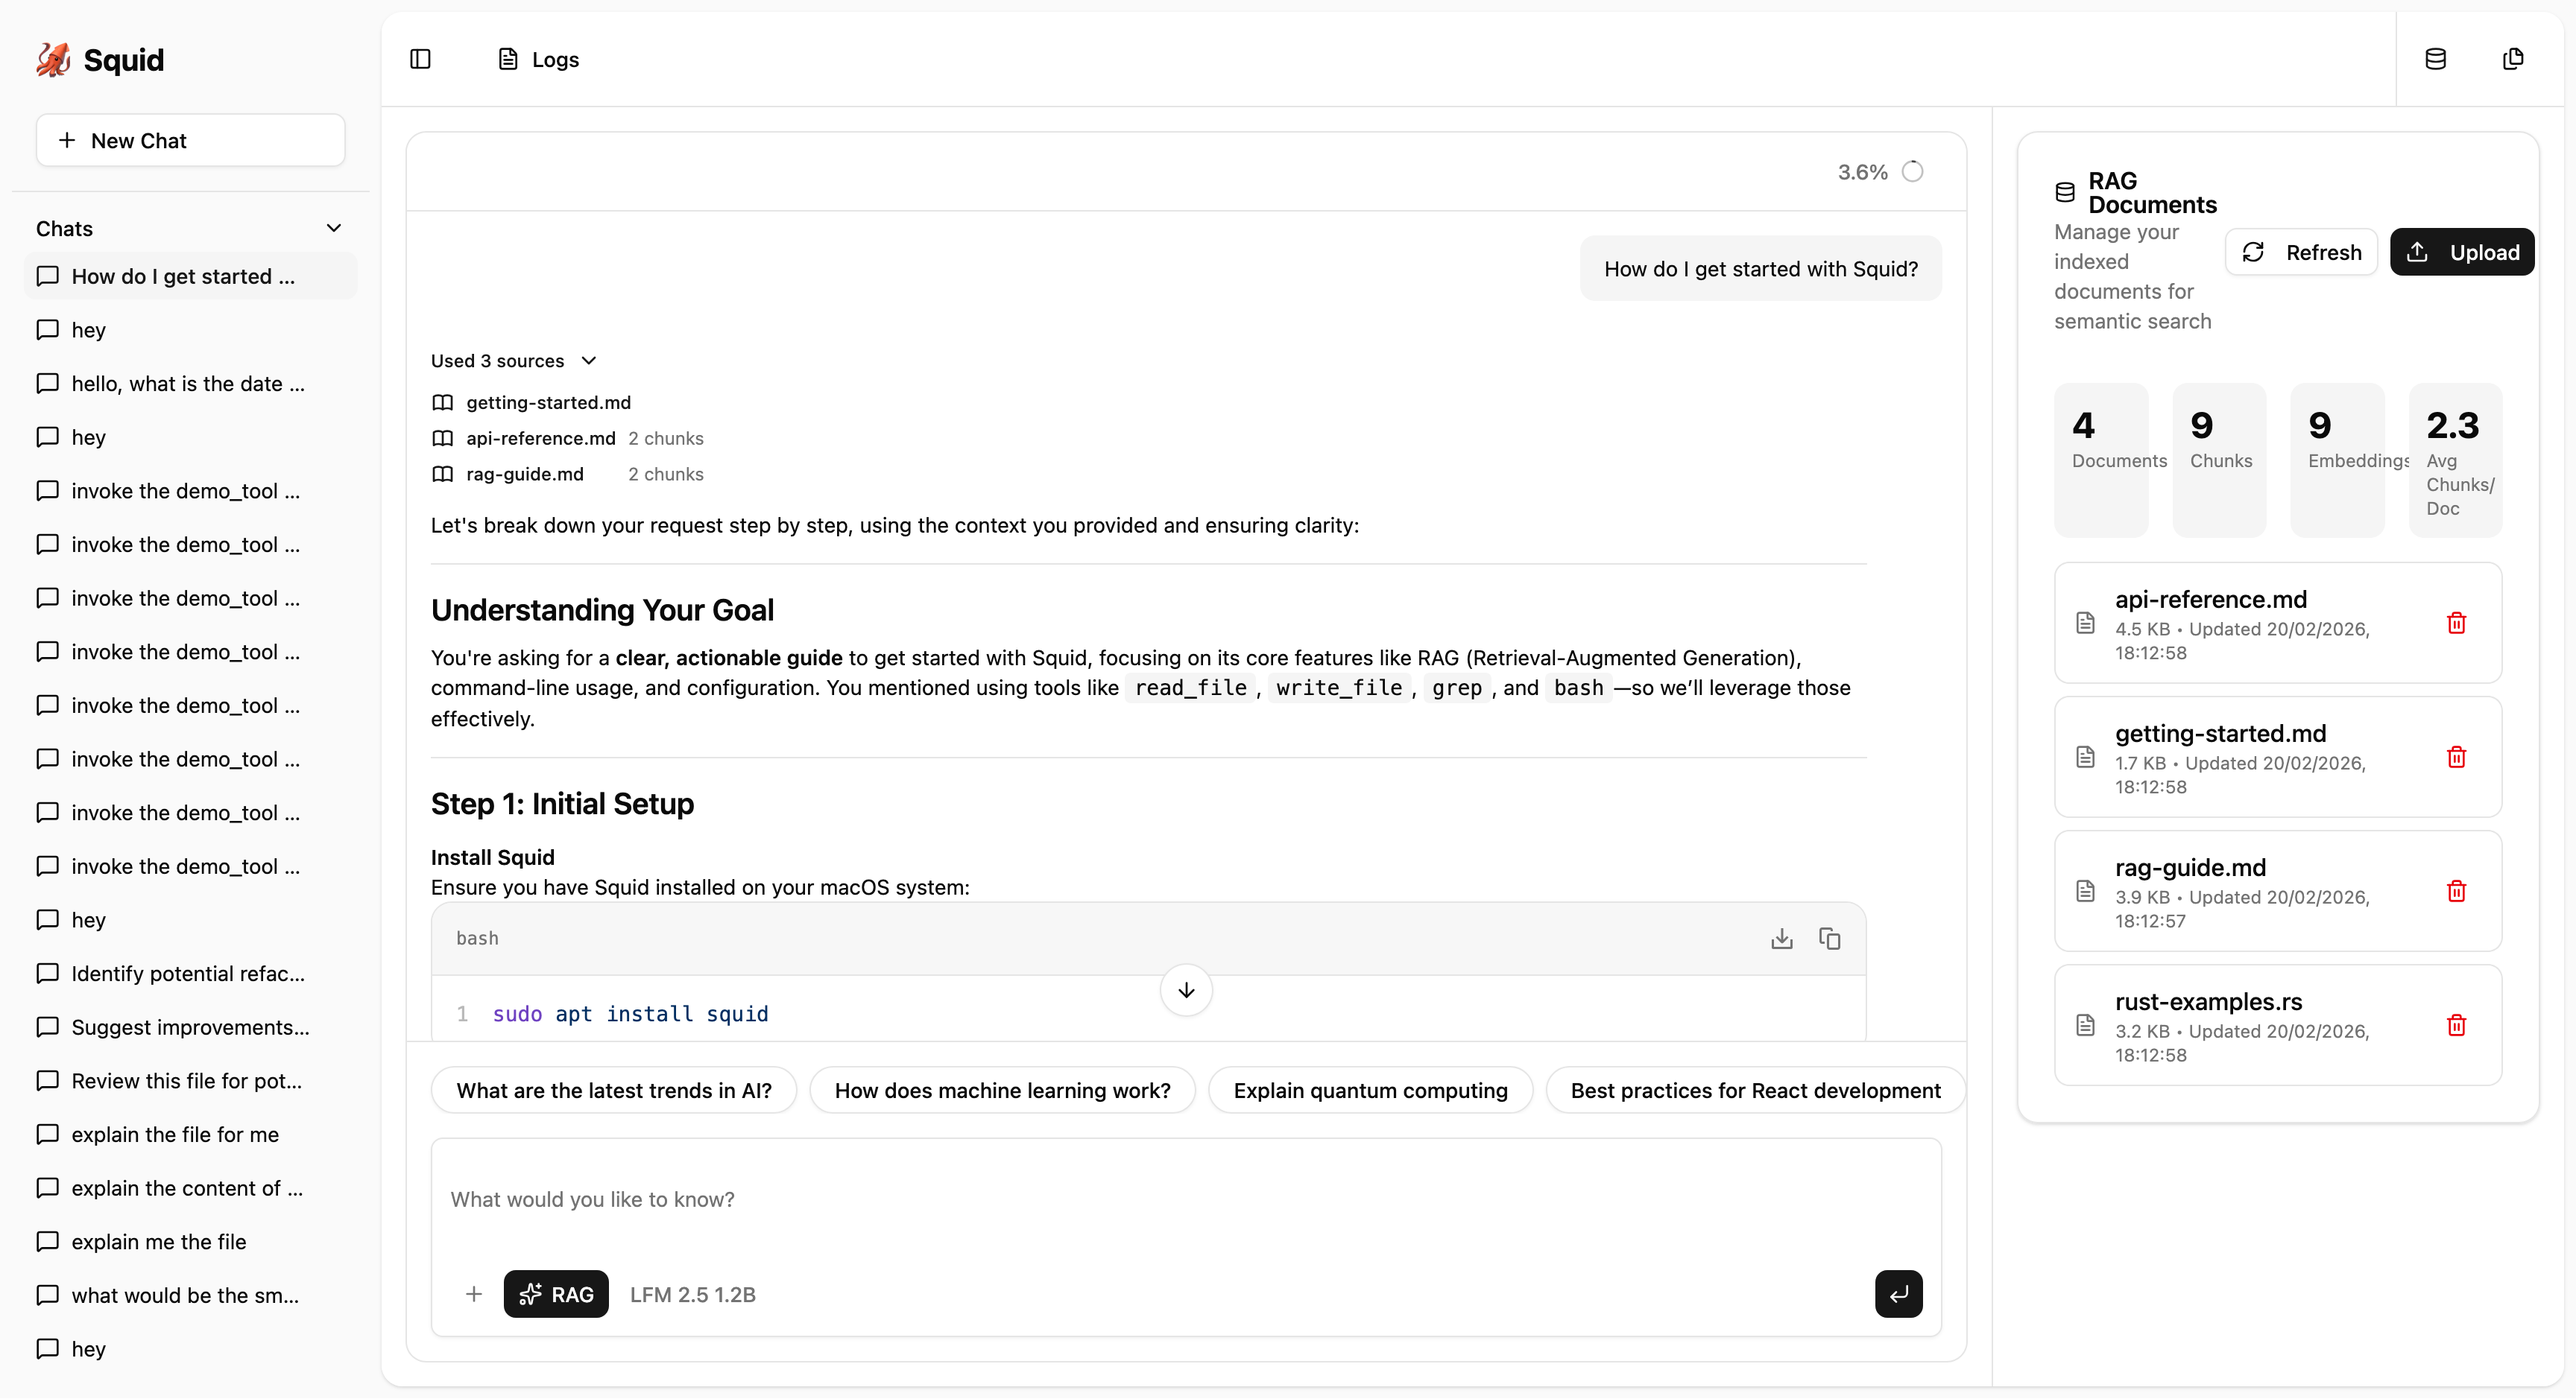
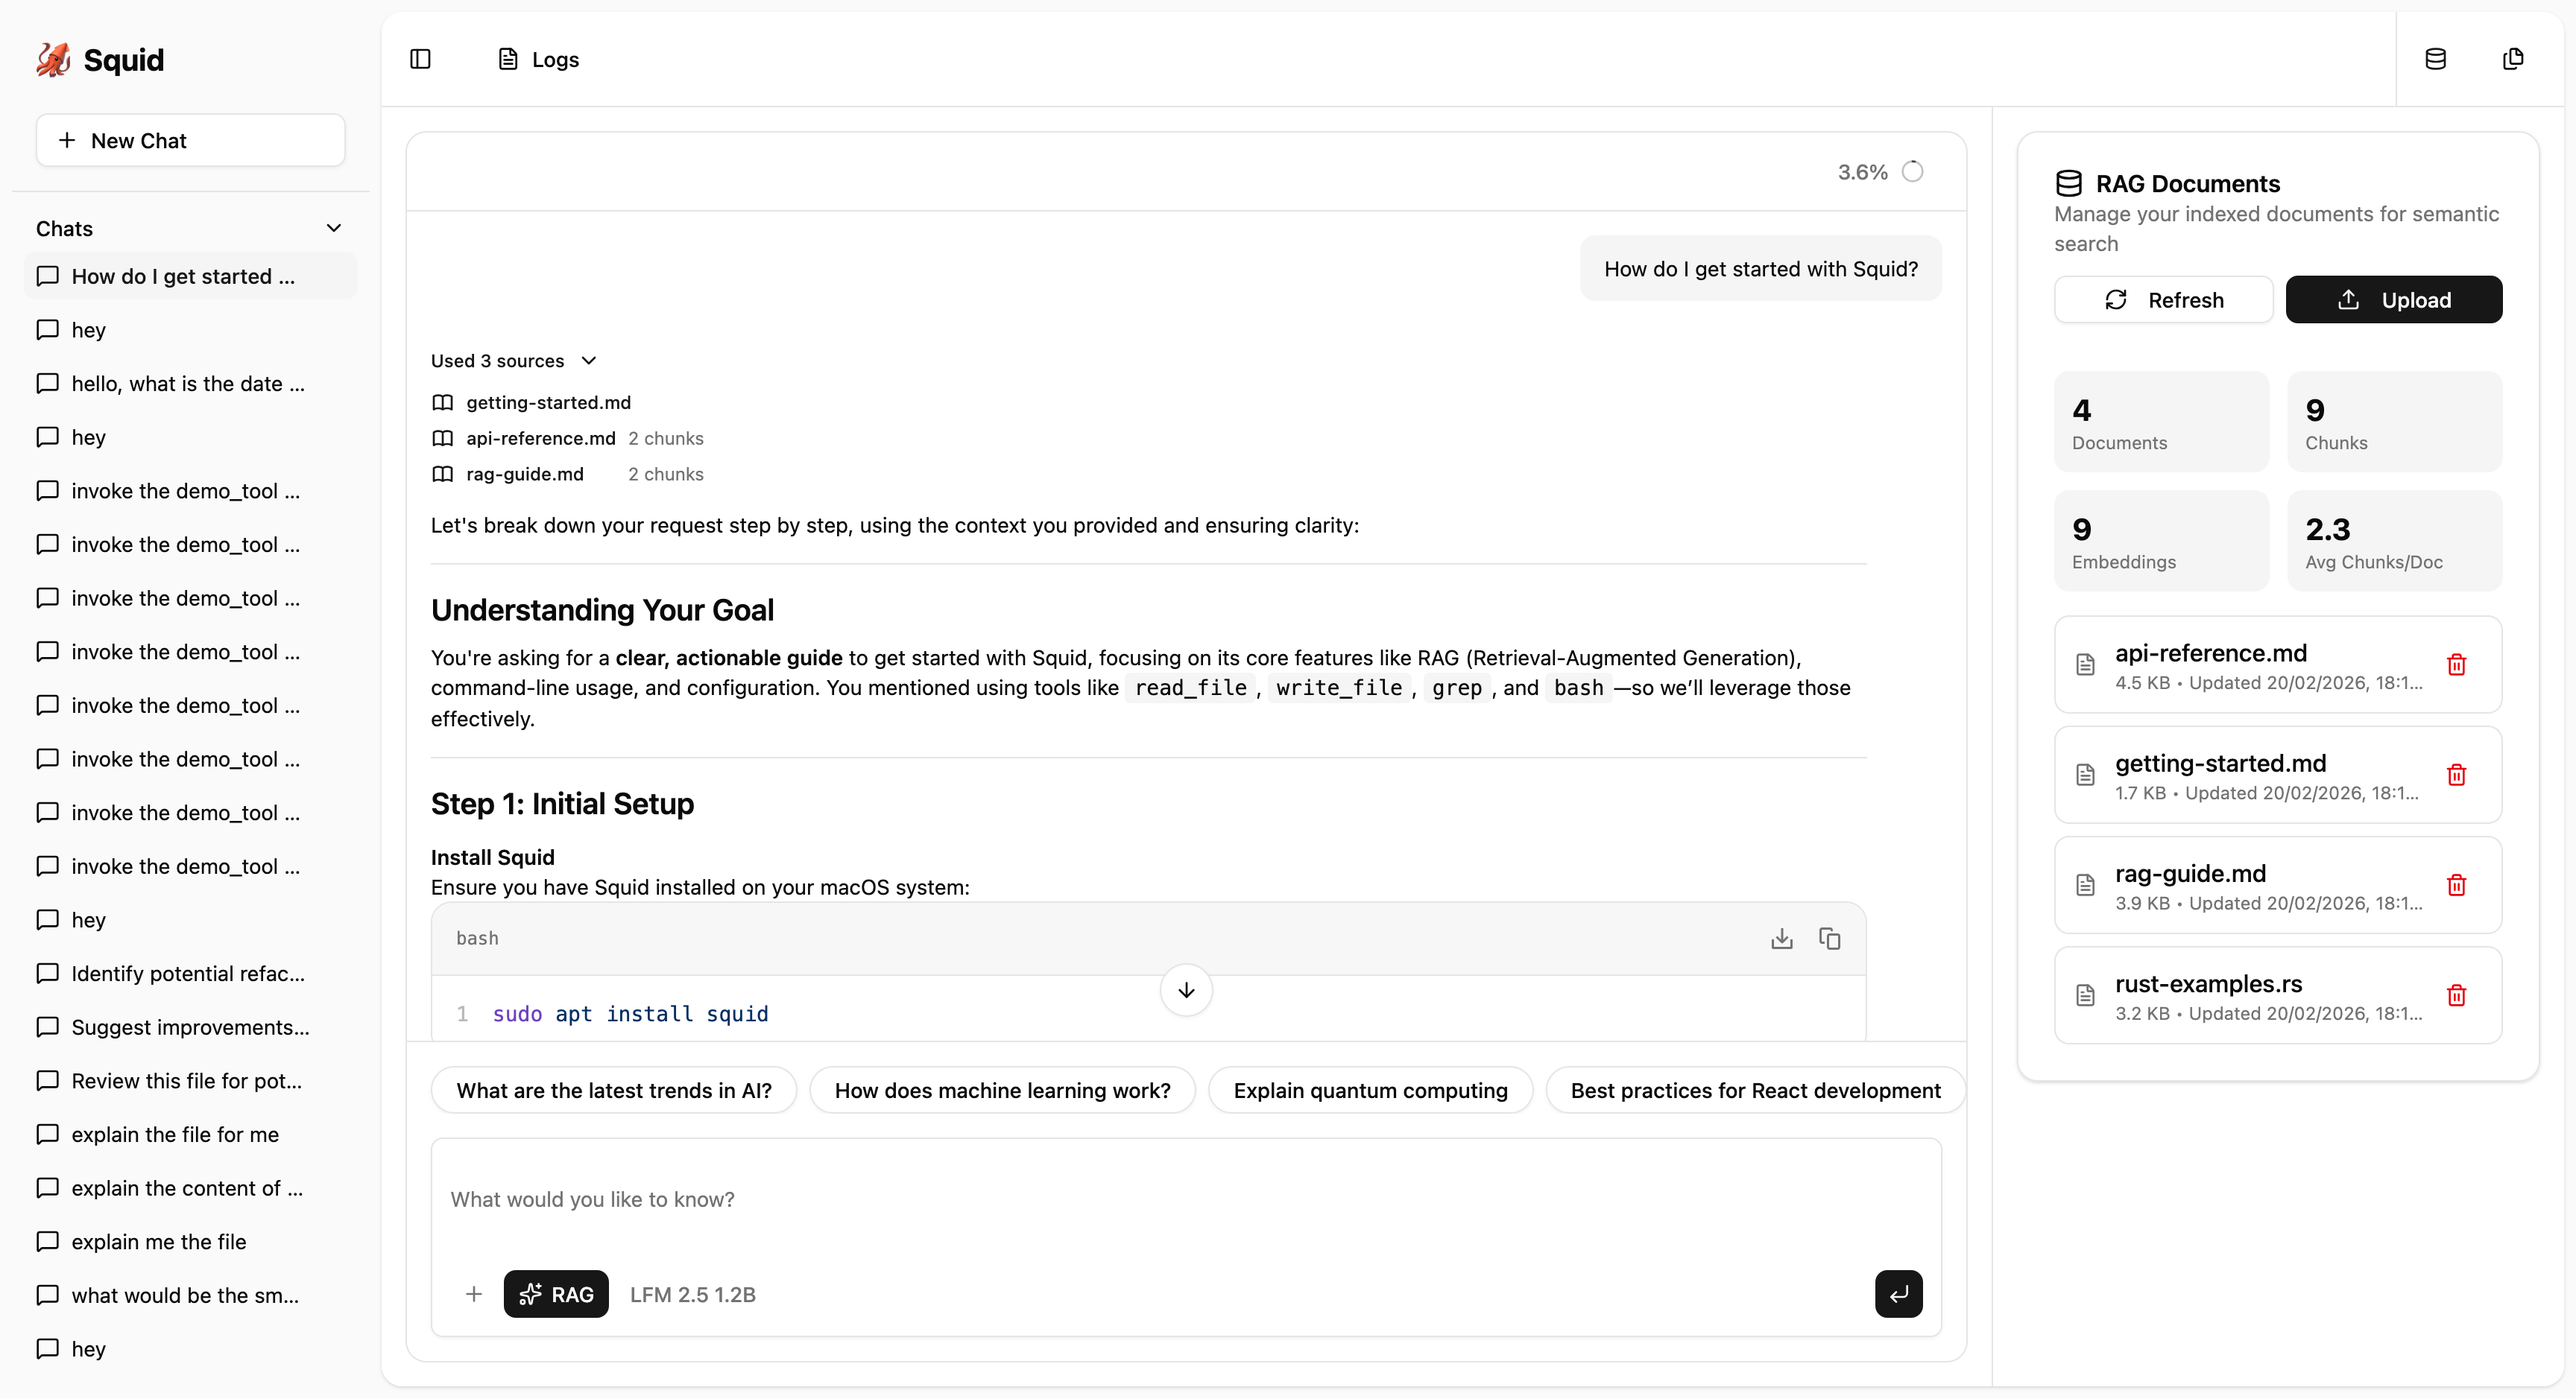
Update DocumentManager UI and remove RagQueryPanel component
- Modified layout and styling in DocumentManager for improved user experience, including adjustments to spacing and font sizes.
- Removed the RagQueryPanel component as part of the ongoing refactor to streamline RAG functionality within the application.

diff --git a/web/src/components/app/document-manager.tsx b/web/src/components/app/document-manager.tsx
@@ -190,7 +190,7 @@ export function DocumentManager({ apiUrl = '', onDocumentChange }: DocumentManag
   return (
     <Card className="w-full">
       <CardHeader>
-        <div className="flex items-center justify-between">
+        <div className="space-y-3">
           <div>
             <CardTitle className="flex items-center gap-2">
               <Database className="h-5 w-5" />
@@ -199,13 +199,13 @@ export function DocumentManager({ apiUrl = '', onDocumentChange }: DocumentManag
             <CardDescription>Manage your indexed documents for semantic search</CardDescription>
           </div>
           <div className="flex gap-2">
-            <Button variant="outline" size="sm" onClick={() => { void loadDocuments(); void loadStats(); }}>
+            <Button variant="outline" size="sm" onClick={() => { void loadDocuments(); void loadStats(); }} className="flex-1">
               <RefreshCw className="h-4 w-4 mr-2" />
               Refresh
             </Button>
             <Dialog open={uploadDialogOpen} onOpenChange={setUploadDialogOpen}>
               <DialogTrigger asChild>
-                <Button size="sm">
+                <Button size="sm" className="flex-1">
                   <Upload className="h-4 w-4 mr-2" />
                   Upload
                 </Button>
@@ -272,21 +272,21 @@ export function DocumentManager({ apiUrl = '', onDocumentChange }: DocumentManag
       </CardHeader>
       <CardContent>
         {stats && (
-          <div className="grid grid-cols-4 gap-4 mb-4">
+          <div className="grid grid-cols-2 gap-3 mb-4">
             <div className="bg-muted rounded-lg p-3">
-              <div className="text-2xl font-bold">{stats.doc_count}</div>
+              <div className="text-xl font-bold">{stats.doc_count}</div>
               <div className="text-xs text-muted-foreground">Documents</div>
             </div>
             <div className="bg-muted rounded-lg p-3">
-              <div className="text-2xl font-bold">{stats.chunk_count}</div>
+              <div className="text-xl font-bold">{stats.chunk_count}</div>
               <div className="text-xs text-muted-foreground">Chunks</div>
             </div>
             <div className="bg-muted rounded-lg p-3">
-              <div className="text-2xl font-bold">{stats.embedding_count}</div>
+              <div className="text-xl font-bold">{stats.embedding_count}</div>
               <div className="text-xs text-muted-foreground">Embeddings</div>
             </div>
             <div className="bg-muted rounded-lg p-3">
-              <div className="text-2xl font-bold">{stats.avg_chunks_per_doc.toFixed(1)}</div>
+              <div className="text-xl font-bold">{stats.avg_chunks_per_doc.toFixed(1)}</div>
               <div className="text-xs text-muted-foreground">Avg Chunks/Doc</div>
             </div>
           </div>
@@ -309,11 +309,11 @@ export function DocumentManager({ apiUrl = '', onDocumentChange }: DocumentManag
                 key={doc.id}
                 className="flex items-center justify-between p-3 border rounded-lg hover:bg-muted/50 transition-colors"
               >
-                <div className="flex items-center gap-3 flex-1">
-                  <FileText className="h-4 w-4 text-muted-foreground" />
+                <div className="flex items-center gap-3 flex-1 min-w-0">
+                  <FileText className="h-4 w-4 text-muted-foreground shrink-0" />
                   <div className="flex-1 min-w-0">
                     <div className="font-medium truncate">{doc.filename}</div>
-                    <div className="text-xs text-muted-foreground">
+                    <div className="text-xs text-muted-foreground truncate">
                       {formatFileSize(doc.file_size)} • Updated {formatDate(doc.updated_at)}
                     </div>
                   </div>
@@ -322,7 +322,7 @@ export function DocumentManager({ apiUrl = '', onDocumentChange }: DocumentManag
                   variant="ghost"
                   size="icon"
                   onClick={() => { void handleDelete(doc.filename); }}
-                  className="text-destructive hover:text-destructive hover:bg-destructive/10"
+                  className="text-destructive hover:text-destructive hover:bg-destructive/10 shrink-0"
                 >
                   <Trash2 className="h-4 w-4" />
                 </Button>
